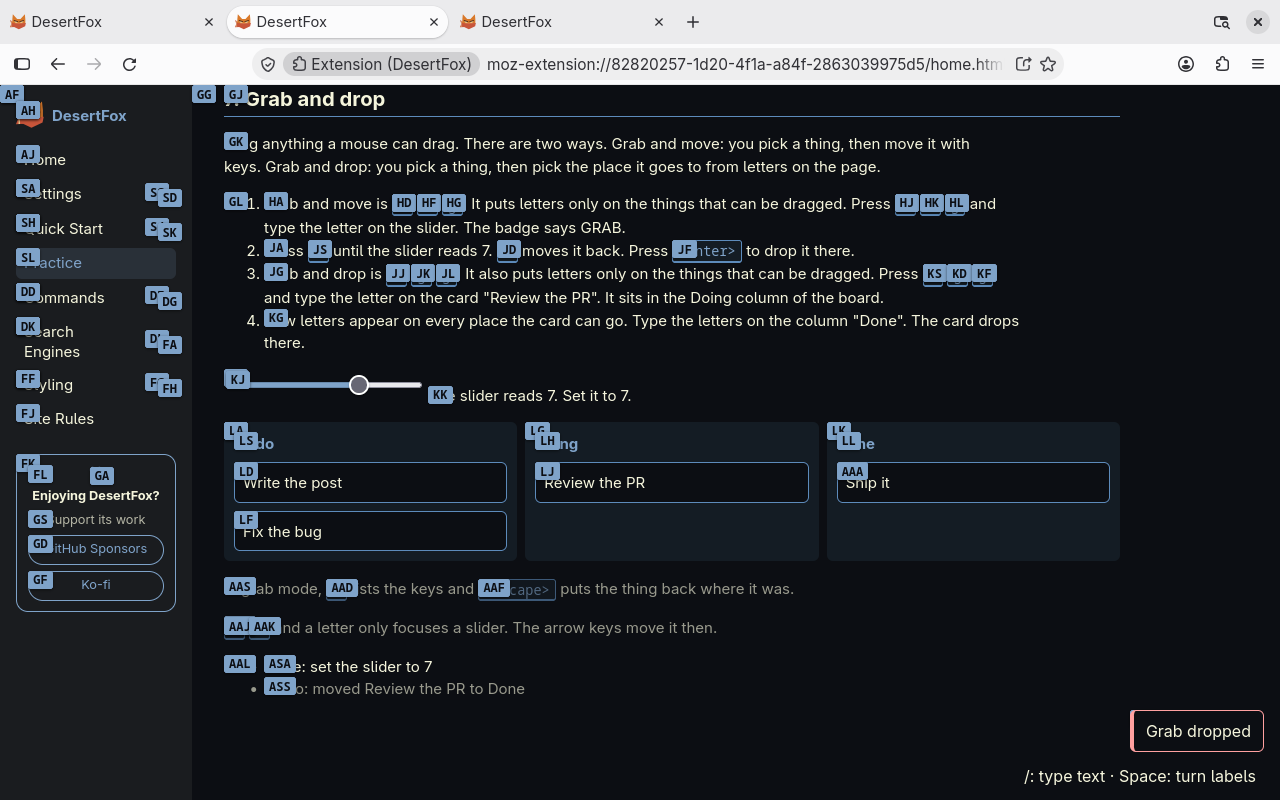
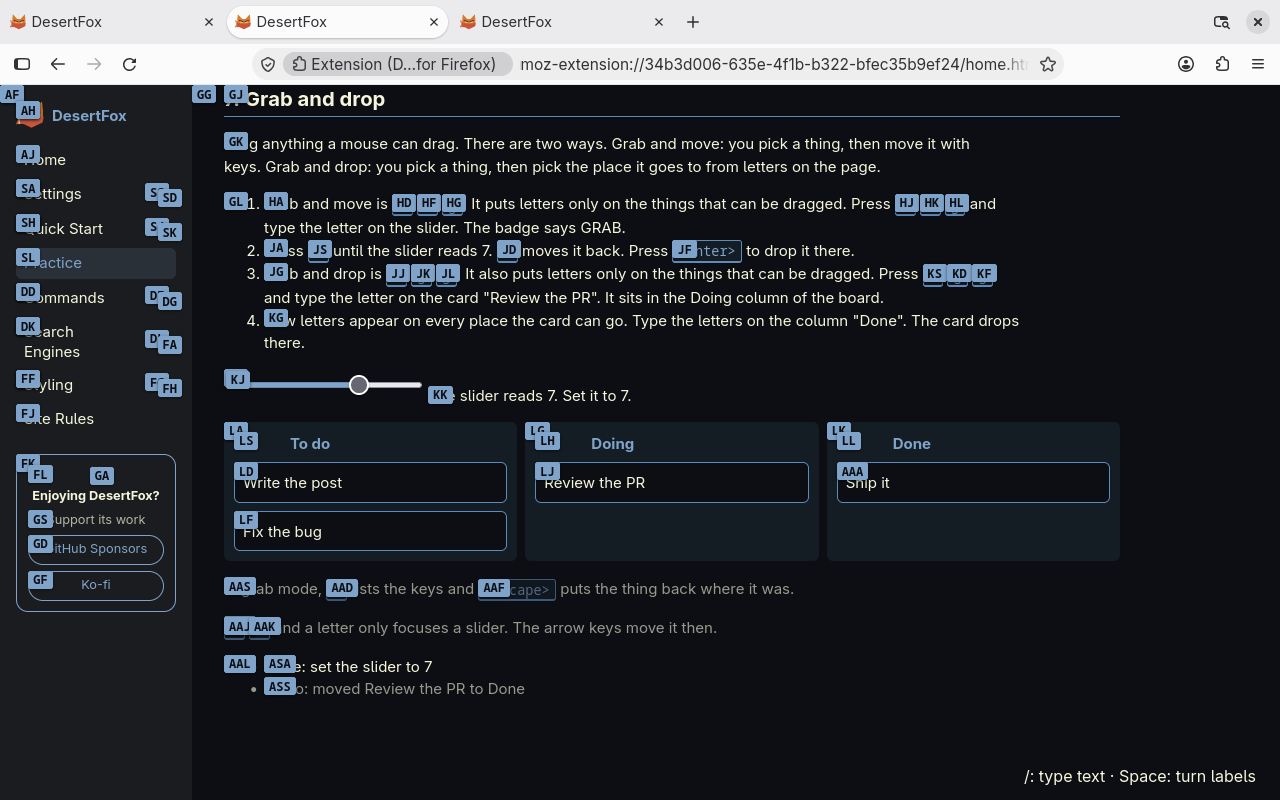
fix(practice): clear the drag still, show two moves, add drag.gif
The drag still showed the slider's drop toast, and hint labels hid the
column titles. The titles now sit right of the corner labels. The scene
waits for the toast to clear and for the target labels to show.

A column kept its drag counter after an aborted drag. The next drag
then started with a stale highlight. The board's dragend now zeroes
every counter, and the drop handler appends to its own column.

The demo scene moves one card twice, to Doing and then to Done. The
key test checks that no highlight stays after a drop. It also checks
that a card in Done drags out again and the tick stays.

A separate drag.gif holds only that scene. It is cut from the same
film with the demo GIF settings.

diff --git a/src/help/practice_page.ts b/src/help/practice_page.ts
@@ -105,15 +105,18 @@ function work_board(mark: (name: string) => void): HTMLElement {
   let dragged: HTMLElement | undefined;
   const board = el("div", "desertfox-practice-board");
   board.id = "practice-board";
+  const resets: (() => void)[] = [];
   board.addEventListener("dragend", () => {
     dragged = undefined;
-    board.querySelectorAll(".desertfox-practice-column").forEach((column) => column.classList.remove("desertfox-practice-over"));
+    for (const reset of resets) reset();
   });
   for (const spec of BOARD_COLUMNS) {
     const column = el("div", "desertfox-practice-column", el("strong", undefined, spec.title));
     column.id = `practice-column-${spec.id}`;
     // dragenter and dragleave fire in pairs as the pointer crosses the cards, so a counter keeps the highlight steady.
     let inside = 0;
+    const reset = () => { inside = 0; column.classList.remove("desertfox-practice-over"); };
+    resets.push(reset);
     column.addEventListener("dragenter", () => { inside++; column.classList.add("desertfox-practice-over"); });
     column.addEventListener("dragleave", () => {
       inside = Math.max(0, inside - 1);
@@ -122,11 +125,10 @@ function work_board(mark: (name: string) => void): HTMLElement {
     column.addEventListener("dragover", (event) => event.preventDefault());
     column.addEventListener("drop", (event) => {
       event.preventDefault();
-      inside = 0;
-      column.classList.remove("desertfox-practice-over");
+      reset();
       const card = dragged;
       if (card === undefined) return;
-      (event.currentTarget as HTMLElement).append(card);
+      column.append(card);
       if (card.textContent === BOARD_GOAL.card && spec.id === BOARD_GOAL.column) mark("moved");
     });
     for (const text of spec.cards) {

diff --git a/src/help/home.html b/src/help/home.html
@@ -131,7 +131,7 @@
   .desertfox-practice-strip p { max-width: none; white-space: nowrap; }
   .desertfox-practice-board { display: flex; gap: var(--desertfox-space-2); max-width: none; margin: 0 0 1rem; }
   .desertfox-practice-column { flex: 1; display: flex; flex-direction: column; gap: var(--desertfox-space-2); padding: var(--desertfox-space-2); border: 2px solid transparent; border-radius: var(--desertfox-radius); background: var(--desertfox-bg-mantle); }
-  .desertfox-practice-column > strong { color: var(--desertfox-primary); }
+  .desertfox-practice-column > strong { color: var(--desertfox-primary); padding-left: 3.5rem; }
   .desertfox-practice-card { padding: var(--desertfox-space-2); border: 1px solid var(--desertfox-border); border-radius: var(--desertfox-radius); background: var(--desertfox-bg-core); cursor: grab; }
   .desertfox-practice-over { border-color: var(--desertfox-primary); }
   .desertfox-help-shadowed { opacity: .5; }
